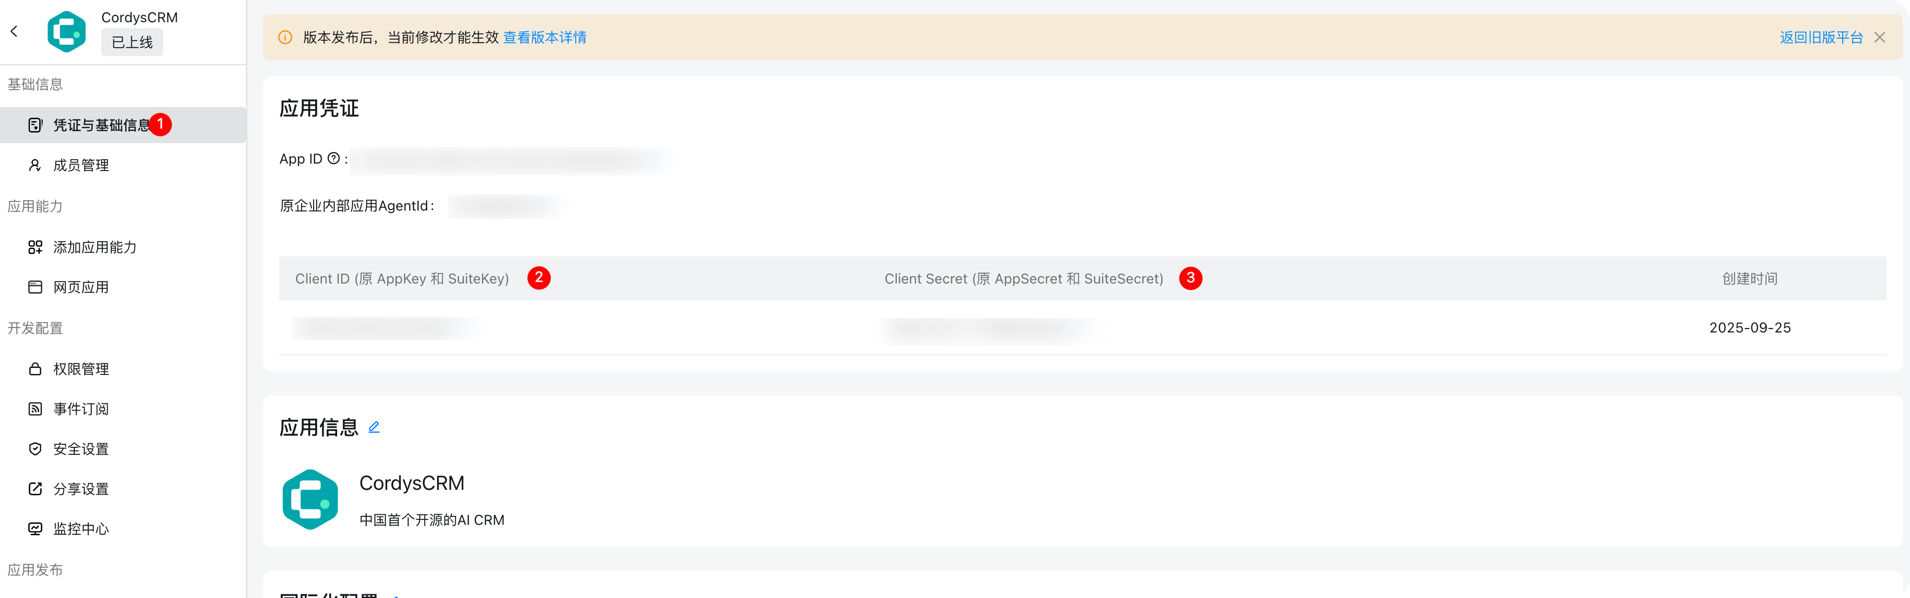
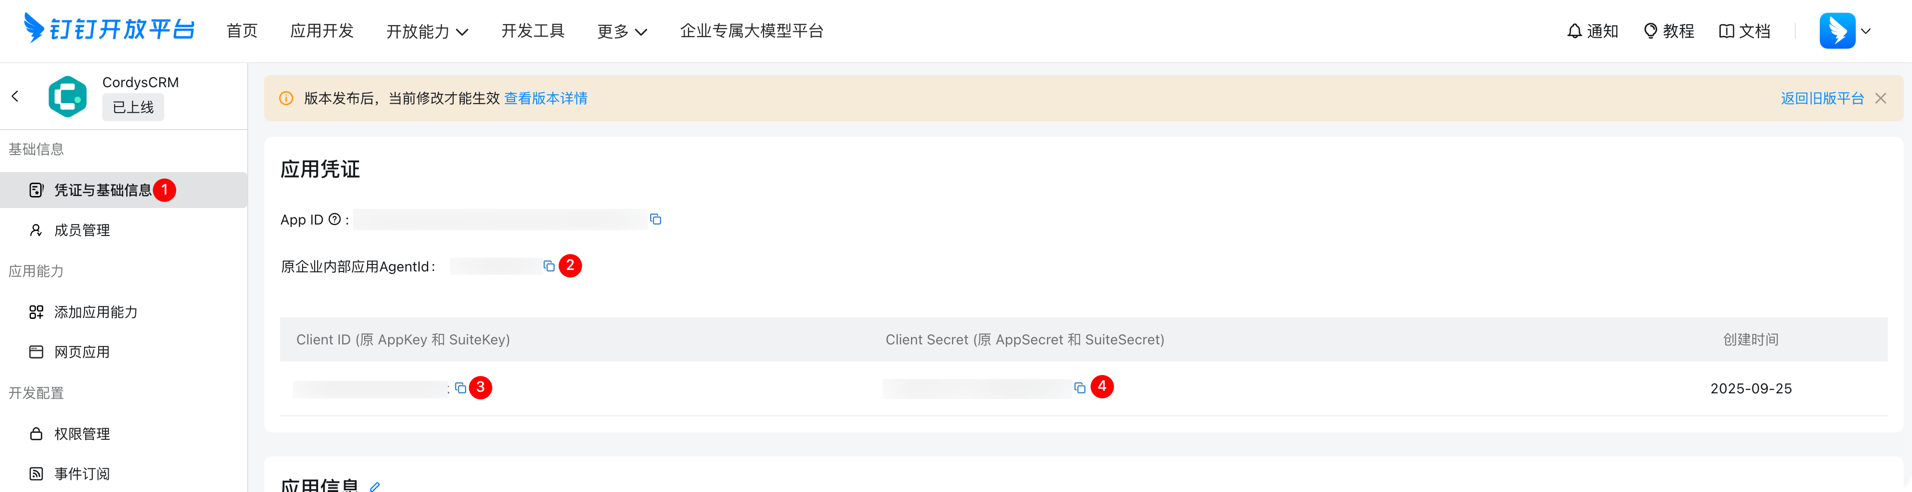
docs: update dingTalk docs

diff --git a/docs/manual/user_manual/dingtalk.md b/docs/manual/user_manual/dingtalk.md
@@ -19,8 +19,9 @@
 
     在钉钉管理后台应用开发页面选择企业内部应用-钉钉应用-创建自建应用，在应用列表页面点击更多，查看应用详情-应用凭证与基础信息，并获取以下关键凭证：
 
-     - 应用的 Client ID
-     - 应用的 Client Secret
+     - 原企业内部应用AgentId (内部应用id，用于发送钉钉的应用通知) 
+     - 应用的 Client ID (应用id)
+     - 应用的 Client Secret  (应用密钥)
 
       ![配置](../img/user_manual/dingtalk_app.png)
       ![配置](../img/user_manual/dingtalk_app_create.png)
